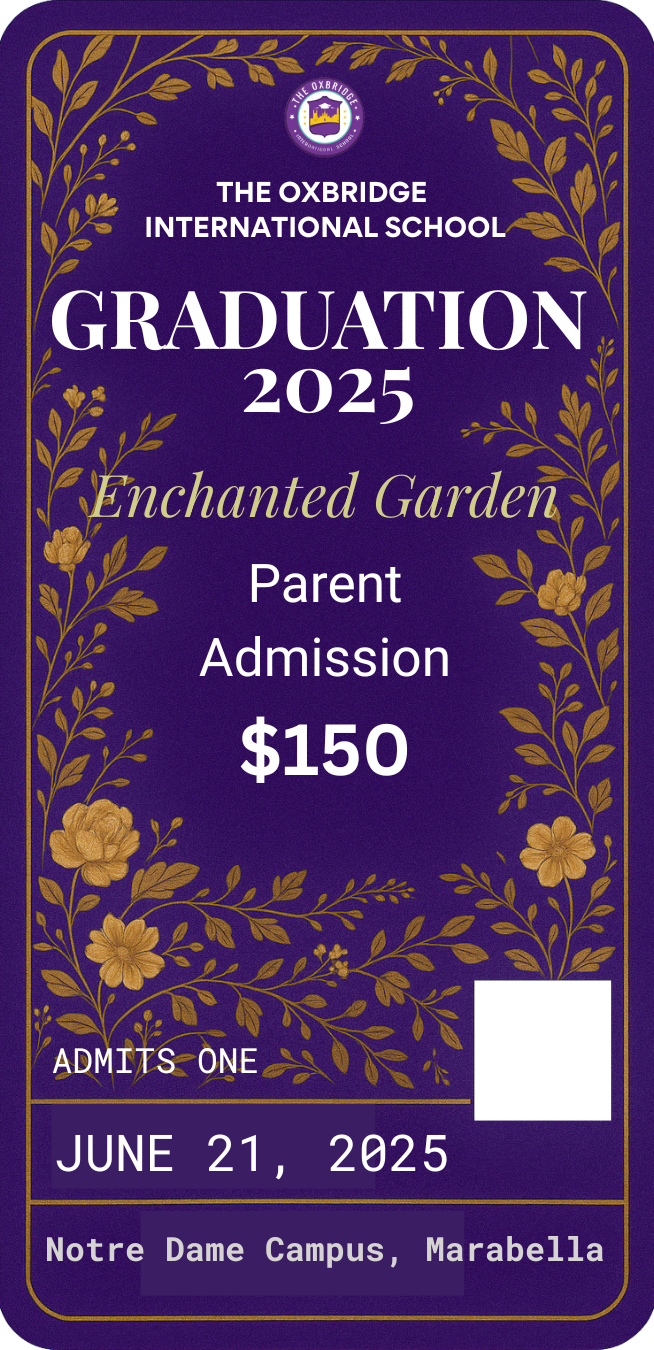
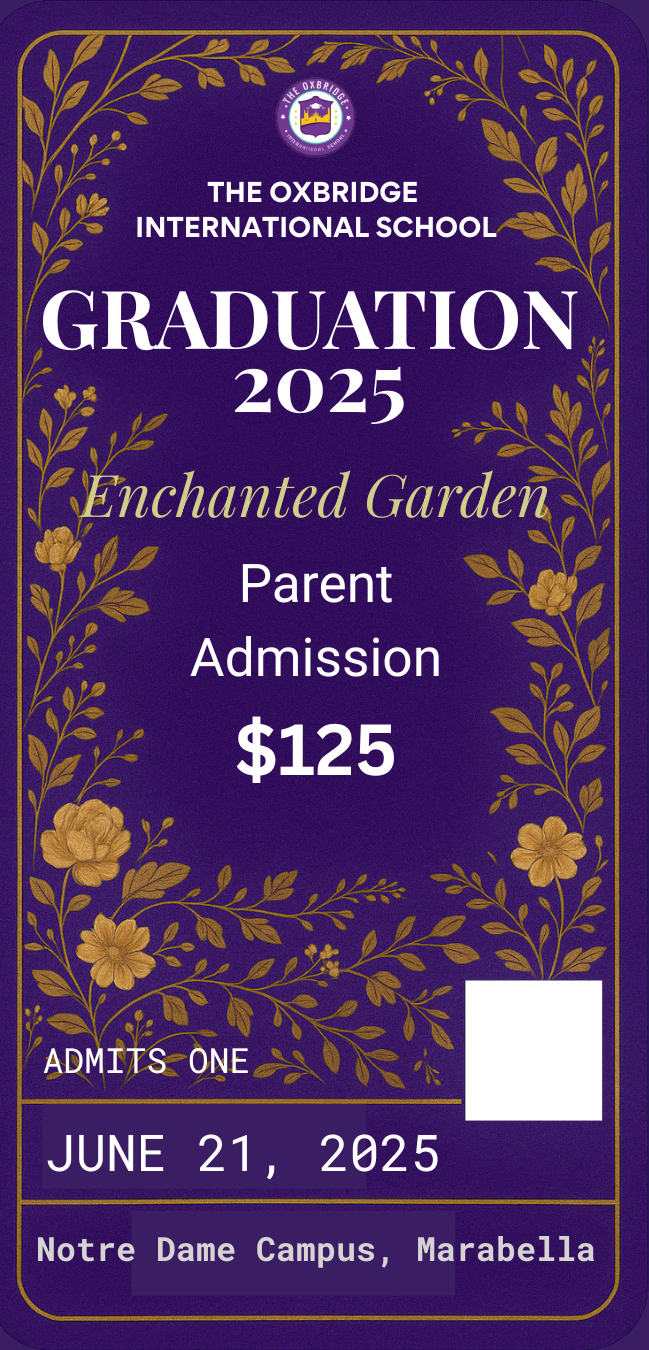
Change price of parent tickets

diff --git a/tickets/models.py b/tickets/models.py
@@ -56,7 +56,7 @@ class Ticket(models.Model):
 		cost = 0
 		match self.type:
 			case "p":
-				cost = 150
+				cost = 125
 			case "g":
 				cost = 550
 			case "ge":
